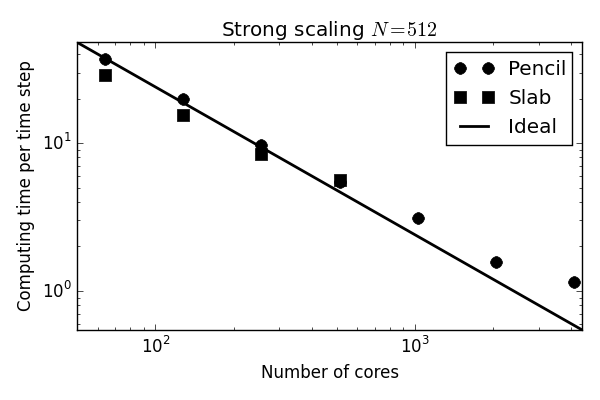
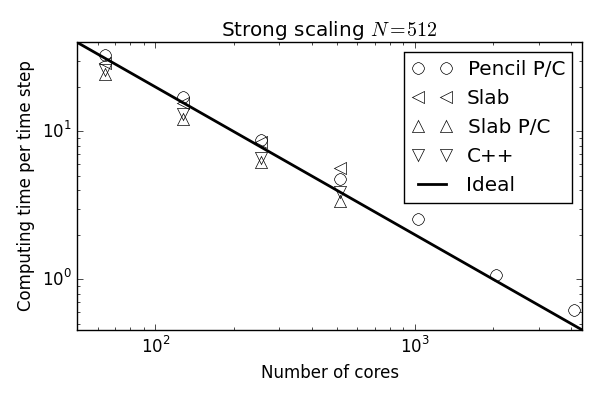
Adding first attempt at abstract and conclusions

diff --git a/PythonDNSproject.tex b/PythonDNSproject.tex
@@ -134,11 +134,23 @@ float=!htpb]{#2}}
 
 \begin{document}
 \maketitle
-\section{Abstract}
+\section*{Abstract}
+Direct Numerical Simulations (DNS) of the Navier Stokes equations is a valuable research tool in fluid dynamics. However, there are quite few publicly available codes and, due to heavy number crunching, codes are usually written in low-level languages. In this paper we describe a pure Python pseudo-spectral DNS code that nearly matches the performance of pure C for thousands of processors and billions of unknowns. We also describe an optimized version, using Cython, that is found to match C. 
+The solver is written from scratch in Python, both the mesh, the MPI domain decomposition and 
+temporalintegrators. The solver has been verified and benchmarked on the Shaheen supercomputer at the 
+KAUST supercomputing laboratory and we are able to show very good scaling up to several thousand cores. 
 
 \section{Introduction}
 %\subsection{}
-Direct Numerical Simulations (DNS) is a term reserved for computer simulations of turbulent flows that are fully resolved in both time and space. DNS are usually conducted using numerical methods of such high quality that numerical dispersion and diffusion errors are negligible compared to their actual physical counterparts. To this end, DNS has historically been carried out with extremely accurate and efficient spectral methods, and in the fluid dynamics community DNS enjoys  today the same status as carefully conducted experiments. DNS can provide detailed and highly reliable data not possible to extract from experiments, which in recent years have driven a number of discoveries regarding the very nature of turbulence. The present paper presents a new, computationally attractive tool for performing DNS, realized by recent programming technologies.
+Direct Numerical Simulations (DNS) is a term reserved for computer simulations of turbulent flows that are 
+fully resolved in both time and space. DNS are usually conducted using numerical methods of such high 
+quality that numerical dispersion and diffusion errors are negligible compared to their actual physical 
+counterparts. To this end, DNS has historically been carried out with extremely accurate and efficient 
+spectral methods, and in the fluid dynamics community DNS enjoys  today the same status as carefully 
+conducted experiments. DNS can provide detailed and highly reliable data not possible to extract from 
+experiments, which in recent years have driven a number of discoveries regarding the very nature of 
+turbulence. The present paper presents a new, computationally attractive tool for performing DNS, realized 
+by recent programming technologies.
 
 Because of the extremely heavy number crunching implied by DNS,
 researchers aim at highly optimized implementations running on
@@ -200,7 +212,7 @@ to scale well up to 65,000 cores.
 
 The ability of Python to wrap low-level, computationally highly efficient Fortran and C/C++ libraries for various applications is today well known, appreciated, and utilized by many. A lesser known fact is that basic Python modules like \texttt{numpy}, used for linear algebra and array manipulations, and \texttt{mpi4py}, which wraps (nearly) the entire MPI library, may be used directly to develop, from scratch, high performance solvers that run at speeds comparable to the very best implementations in low-level codes. A general misconception seems to be that Python may be used for fast prototyping and post-processing, as MATLAB, but that serious high-performance computing on parallel platforms require reimplementations in Fortran, C or C++. In this paper, we conquer this misconception: The only real requirement for developing a fast pure \texttt{numpy}/\texttt{mpi4py} solver is that all array manipulations are performed using vectorization (that call underlying BLAS or LAPACK backends) such that explicit for loops over long arrays in Python are avoided. The \texttt{mpi4py} module in turn provides a message passing interface for \texttt{numpy} arrays at communication speeds very close to pure C code.
 
-The major objective of this work is to explain a novel implementation of an excellent research tool (DNS) aimed at a wide audience. To this end, we i) show how a complete pseudo-spectral DNS solver can be written from scratch in Python using less than 100 lines of compact, very readable code, and ii) show that these 100 lines of code can run at speeds comparable to its low-level counterpart in hand-written C++ code on thousands of processors. To establish scaling and benchmark results, we have run the codes on SHAHEEN, a massively parallel BlueGene/P machine at the KAUST Supercomputing Laboratory.
+The major objective of this work is to explain a novel implementation of an excellent research tool (DNS) aimed at a wide audience. To this end, we i) show how a complete pseudo-spectral DNS solver can be written from scratch in Python using less than 100 lines of compact, very readable code, and ii) show that these 100 lines of code can run at speeds comparable to its low-level counterpart in hand-written C++ code on thousands of processors. To establish scaling and benchmark results, we have run the codes on Shaheen, a massively parallel BlueGene/P machine at the KAUST Supercomputing Laboratory.
 
 \section{The Navier-Stokes equations in spectral space}
 Our DNS implementation is based on a pseudo-spectral Fourier-Galerkin method \cite{canuto1988} for the spatial discretization. The Navier-Stokes equations are first cast in rotational form
@@ -213,7 +225,7 @@ Our DNS implementation is based on a pseudo-spectral Fourier-Galerkin method \ci
 \end{align}
 where $\bm{u}(\bm{x}, t)$ is the velocity vector, $\bm{\omega}=\nabla \times \bm{u}$ the vorticity vector, $\bm{e}^i$ the Cartesian unit vectors, and the modified pressure $P=p+\bm{u}\cdot \bm{u}/2$, where $p$ is the regular pressure normalized by the constant density. The equations are periodic in all three spatial directions. If all three directions now are discretized uniformely in space using a structured computational mesh with $N$ points in each direction, the mesh points can be represented as
 \begin{equation}
-\bm{x} = \left\{(x_i, x_j, x_k) = \left( \frac{2\pi i}{N}, \frac{2\pi j}{N}, \frac{2\pi k}{N} \right): \, i,j,k \in 0,\ldots, N-1 \right\}.
+\bm{x} = \left\{(x_i, y_j, z_k) = \left( \frac{2\pi i}{N}, \frac{2\pi j}{N}, \frac{2\pi k}{N} \right): \, i,j,k \in 0,\ldots, N-1 \right\}.
 \label{eq:realmesh}
 \end{equation}
 All variables may be transformed from the physical mesh $\bm{x}$ to a discrete and bounded Fourier wavenumber mesh using three-dimensional discrete Fourier transforms. The wavenumber mesh is represented as
@@ -223,15 +235,15 @@ All variables may be transformed from the physical mesh $\bm{x}$ to a discrete a
 \end{equation}
 Each point in the physical mesh will take part in three consecutive transformations, one for each periodic direction. The first transformed direction (arbitrary which one) is real and the remaining two are complex valued. There are in total $N^2$ real transforms of length $N$ and $2(N/2+1)N$ complex transforms of length $N$. The transforms in the three directions are performed sequentially. The first real transform along one line in the $z$-direction reads
 \begin{align}
-\mathcal{F}_{k_z}(\bm{u}) = \hat{\bm{u}}_{k_z}(t) &= \frac{2\pi}{N}\sum_{k=0}^{N-1}{\bm{u}({x}_k, t)}e^{-\imath k_z x_k}, \quad k_z=-N/2+1, \ldots, N/2,
+\mathcal{F}_{k_z}(\bm{u}) = \hat{\bm{u}}_{k_z}(t) &= \frac{2\pi}{N}\sum_{k=0}^{N-1}{\bm{u}({z}_k, t)}e^{-\imath k_z z_k}, \quad k_z=-N/2+1, \ldots, N/2,
 \end{align}
 with the inverse transform
 \begin{align}
-\mathcal{F}^{-1}_{z} (\hat{\bm{u}}) =\bm{u}(x_k, t) &= \frac{1}{2\pi}\sum_{k_z=-N/2+1}^{N/2}\hat{\bm{u}}_{k_z}(t)e^{\imath k_z {x}_k}, \quad k=0, \ldots, N-1.
+\mathcal{F}^{-1}_{z} (\hat{\bm{u}}) =\bm{u}(z_k, t) &= \frac{1}{2\pi}\sum_{k_z=-N/2+1}^{N/2}\hat{\bm{u}}_{k_z}(t)e^{\imath k_z {z}_k}, \quad k=0, \ldots, N-1.
 \end{align}
-Here $\imath=\sqrt{-1}$ is used to represent the imaginary unit.
+Here $\imath=\sqrt{-1}$ is used to represent the imaginary unit. The transform is performed along all $N^2$ lines on the cubic mesh in the $z$-direction. 
 
-The transform is performed along all $N^2$ lines on the cubic mesh in the $z$-direction. To simplify notation, the complete three-dimensional transform for the entire mesh used in this work is denoted as
+A three-dimensional FFT on the structured grid is obtained by taking three consecutive transforms
 \begin{equation}
 \mathcal{F}_{\bm{k}}(\bm{u}) = \hat{\bm{u}}_{\bm{k}}(t) = \mathcal{F}_{k_x}\left(\mathcal{F}_{k_y}\left(\mathcal{F}_{k_z}(\bm{u})\right)\right).
 \label{eq:FourierT3D}
@@ -242,7 +254,7 @@ Note, however, that the order is arbitrary except from the data layout in memory
 \end{equation}
 where the inverse transforms are taken in the opposite order of the forward transforms.
 
-By taking the three-dimensional Fourier transform of the Navier-Stokes equations and subsequently the analythical spatial derivatives in spectral space, we obtain a system of ordinary differential equation for $\hat{\bm{u}}_{\bm{k}}$, and the continuity equation reduces to an orthogonal inner product:
+By taking the three-dimensional Fourier transform of the Navier-Stokes equations and subsequently the analytical spatial derivatives in spectral space, we obtain a system of ordinary differential equation for $\hat{\bm{u}}_{\bm{k}}$, and the continuity equation reduces to an orthogonal inner product:
 \begin{align}
  \frac{d\hat{\bm{u}}_{\bm{k}}}{d t} - \widehat{( \bm{u} \times \bm{\omega})}_{\bm{k}} &= - \nu |\bm{k}|^2  \hat{\bm{u}}_{\bm{k}} - \imath \bm{k} \hat{P}_{\bm{k}}, \label{eq:NSf} \\
  \imath \bm{k} \cdot \hat{\bm{u}}_{\bm{k}} &= 0.
@@ -264,13 +276,13 @@ The time integration of (\ref{eq:NSfinal}) is performed explicitly using a fourt
 
 \section{Implementation}
 
-We have implemented the pseudo-spectral discretization of the Navier-Stokes equations, as described in the previous section, in high-level Python code. It is strongly remarked that this Python code is not simply a wrapper of a low-level, high-performance flow solver written originally in Fortran, C or C++. The entire code is implemented directly in Python: the mesh, the MPI domain decomposition, and the time integrators. We are only making use of wrappers for FFT, something that is also done by the majority of low-level flow solvers anyway. The current Python implementation may, as such, be used as an easy to follow, working prototype for a complete low-level implementation in Fortran, C or C++.
+We have implemented the pseudo-spectral discretization of the Navier-Stokes equations, as described in the previous section, in high-level Python code. A complete solver is shown in the Appendix. It is strongly remarked that this Python code is not simply a wrapper of a low-level, high-performance flow solver written originally in Fortran, C or C++. The entire code is implemented directly in Python: the mesh, the MPI domain decomposition, and the time integrators. We are only making use of wrappers for FFT, something that is also done by the majority of low-level flow solvers anyway. The current Python implementation may, as such, be used as an easy to follow, working prototype for a complete low-level implementation in Fortran, C or C++.
 
 The Python solver makes extensive use of the \texttt{numpy} and \texttt{mpi4py} packages, but if the \texttt{pyfftw} module has been installed, it will be used to perform the FFT instead of \texttt{numpy.fft}. The necessary modules are imported as the very first task of the solver:
 
 \begin{python}
 from numpy import *
-from numpy.fft import fftfreq, fft, ifft, rfft, irfft
+from numpy.fft import fftfreq, fft, ifft, rfft2, irfft2, rfftn, irfftn
 try:
     from mpi.wrappyfftw import *
 except ImportError:
@@ -413,21 +425,21 @@ t = 0        # Physical time
 T = 1.0      # End time
 while t <= T:
     t += dt
-    U_hat = ComputeRHS(dU)*dt
+    U_hat += ComputeRHS(dU)*dt
     for i in range(3):
         U[i] = ifftn_mpi(U_hat[i], U[i])
 
 \end{python}
 Obviously, more advanced integrators may be easily added by modifying the final \inpyth{while} loop. 
 
-The nonlinear convection term in (\ref{eq:NSfinal}) is dealiased using the 2/3-rule and dealiasing is simply achieved by an elementwise multiplication of a convection matrix \inpyth{dU[3, N, N, N/2+1} with a matrix \inpyth{dealias[N, N, N/2+1]}, which is zero where the wavenumbers are larger than 2/3 of the Nyquist mode and unity otherwise. Note that the dimensions of \inpyth{dU} and \inpyth{dealias} differ in the first index since \inpyth{dU} contains contributions from all three vector components. However, through automatic broadcasting, \texttt{numpy} realizes that the last three dimensions are the same and as such all three components of \inpyth{dU} (i.e.,  \inpyth{dU[0]}, \inpyth{dU[1]} and  \inpyth{dU[2]}) are multiplied elementwise with the same matrix \inpyth{dealias}. 
+The nonlinear convection term in (\ref{eq:NSfinal}) is dealiased using the 2/3-rule and dealiasing is simply achieved by an elementwise multiplication of a convection matrix \inpyth{dU[3, N, N, N/2+1} with a matrix \inpyth{dealias[N, N, N/2+1]}, that is zero where the wavenumbers are larger than 2/3 of the Nyquist mode and unity otherwise. Note that the dimensions of \inpyth{dU} and \inpyth{dealias} differ in the first index since \inpyth{dU} contains contributions from all three vector components. However, through automatic broadcasting, \texttt{numpy} realizes that the last three dimensions are the same and as such all three components of \inpyth{dU} (i.e.,  \inpyth{dU[0]}, \inpyth{dU[1]} and  \inpyth{dU[2]}) are multiplied elementwise with the same matrix \inpyth{dealias}. 
 
 \subsection{1D Slab decomposition}
 \label{slab1D}
 
 To run the code on several processors using MPI, the mesh and the data structures need to be split up. The most popular strategy in the litterature is the ``slab'' decomposition, where each CPU is assigned responsibility for a certain number of complete 2D planes (slices). In other words, just one of the three indices $(i,j,k)$ is split up and divided amongst the CPUs. The major drawback of the slab decomposition strategy is that the number of CPUs must be smaller than or equal to $N$ for a cubic mesh of size $N^3$. The MPI implementation in FFTW makes use of the slab decomposition strategy, but there is currently no interface from Python to these MPI routines.
 
-The real and wavenumber meshes for the slab decomposition are implemented through a slight modification of the serial code:
+The decomposed physical and wavenumber meshes for the slab decomposition are implemented through a slight modification of the serial code:
 
 \begin{python}
 Np = N / num_processes
@@ -614,7 +626,7 @@ def fftn_mpi(u, fu):
 \end{python}
 
 \subsection{Optimization}
-The implementation discussed thus far is using no more than numpy/mpi4py, and possibly pyfftw for faster FFTs. The FFTs represent the major computational cost of the solver, but there is also significant cost in all the elementwise operations on the structured numpy arrays required to build the right hand side of the Navier-Stokes equations, see the \inpyth{ComputeRHS} function. The elementwise operations, like multiply and divide, are handled by numpy's universal functions (ufuncs), that are fast because they are implemented in C. However, some of the ufuncs may be inefficient because temporary arrays need to be created, especially for multiple-operator expressions. The most glaring example is the cross product (used in computing convection, see Eq. (\ref{eq:curl_convection})), which is computed most efficiently though numpy as
+The implementation discussed thus far is using no more than numpy/mpi4py, and possibly pyfftw for faster FFTs. The FFTs represent the major computational cost of the solver, but there is also significant cost in all the elementwise operations on the structured numpy arrays required to build the right hand side of the Navier-Stokes equations, see the \inpyth{ComputeRHS} function. The elementwise operations, like multiply and divide, are handled by numpy's universal functions (ufuncs), that are fast because they are implemented in C. However, some of the ufuncs may be inefficient due to temporary arrays that need to be created, especially for multiple-operator expressions. The most glaring example for the current solver is the cross product (used in computing convection, see Eq. (\ref{eq:curl_convection})), which is computed most efficiently though numpy as
 \begin{python}
 def cross1(a, b, c):
     """Regular c = a x b"""
@@ -696,12 +708,12 @@ Our Python based DNS solver has been tested on Shaheen, at the KAUST Supercomput
 \subsection{Dynamic loading of Python}
 Running a Python solver on a supercomputer presents a few challenges. Most importantly, the dynamic loading time of Python, i.e., the time to simply get started, may become unreasonably high. To load Python with numpy on the complete 16 racks of Shaheen takes approximately 45 minutes. The main reason is that large-scale supercomputers, such as Shaheen, make use of parallel file systems designed to support large distributed loads, where each CPU is writing or reading data independently. With dynamic loading, however, each process attempts to access the same files simultaneously and bottlenecks appear. 
 
-A few solutions to the loading problem are known. The \inpyth{MPI_Import} Python module of Langton \cite{mpi_import} is designed to overload the built in import mechanism of Python such that only one rank (the zero rank) searches the filesystem for a module and then subsequently broadcasts the results to the remaining ranks. A drawback is the Python implementation where several modules \inpyth{(sys, imp, __builtin__,types, mpi4py)} need to be imported through the regular Python import mechanism. A second approach of Langton is to rewrite the regular finders and loaders modules such that one rank do all the initial work, caching the modules it finds. 
+A few solutions to the loading problem are known. The \inpyth{MPI_Import} Python module of Langton \cite{mpi_import} is designed to overload the built in import mechanism of Python such that only one rank (the zero rank) searches the filesystem for a module and then subsequently broadcasts the results to the remaining ranks. A drawback is the Python implementation where several modules (e.g., \inpyth{sys, imp, __builtin__,types, mpi4py}) need to be imported through the regular Python import mechanism. A second approach of Langton is to rewrite the regular finders and loaders modules such that one rank do all the initial work, caching the modules it finds. 
 
 A better solution is provided through the Scalable Python implementation \cite{scalablepython, Enkovaara201117}. Here CPython is modified slightly such that during import operations only a single process performs the actual I/O, and MPI is used for broadcasting the data to other MPI ranks. The solution provided by scalable python is used in this work and as such dynamic loading times are kept very low (approximately 30 seconds for a full rack).
 
 \subsection{Verification}
-To verify our Python based DNS solver we run the Taylor Green test case for a Reynolds number of 1600. This is a well known test case used, e.g., by the annual Workshop on High-Order CFD Methods, that provides temporal evolution of reference data (https://www.grc.nasa.gov/wp-content/uploads/sites/22/ C3.3$\_$datafiles.zip) for kinetic energy, energy dissipation and vorticity integrated over the computational domain. The Taylor Green test case at Re=1600 starts out as laminar with only one single length scale, and then through a series of complex flow patterns a fully developed, decaying, turbulent flow is obtained. The Taylor Green vortex is initialized as
+To verify the implementation of our Python based DNS solver we run the Taylor Green test case for a Reynolds number of 1600. This is a well known test case used, e.g., by the annual Workshop on High-Order CFD Methods, that provides temporal evolution of reference data\footnote{https://www.grc.nasa.gov/wp-content/uploads/sites/22/ C3.3$\_$datafiles.zip} for kinetic energy, energy dissipation and vorticity integrated over the computational domain. The Taylor Green test case at Re=1600 starts out as laminar with only one single length scale, and then through a series of complex flow patterns a fully developed, decaying, turbulent flow is obtained. The Taylor Green vortex is initialized as
 \begin{python}
 nu = 1./1600
 dt = 0.001
@@ -741,30 +753,32 @@ size as the slab computations. As such the two methods would fall on the same li
 Fig.~\ref{fig:weak_scaling_shaheen} if they were equally efficient. The slab decomposition is thus seen to 
 be slightly more efficient than pencil, which is generally in agreement with previous studies (need ref). 
 
-An obvious scaling problem for the pure numpy implementation is the transpose operation used in the FFTs 
-(see implementation of \inpyth{fftn_mp i}), where a for loop is used over all processes (or over all 
-processes in a group for pencil decomposition) to rearrange data. The for loops are inefficient in Python 
-and should be avoided. For relatively small numbers of processors the cost of this for loop is negligible, 
-but when reaching thousands of processors, the loop becomes too slow leading to poor scaling. When the for 
-loop is moved to Cython, better weak scaling is observed also for highest number of cores shown in Figure 
-\ref{fig:weak_scaling_shaheen}. Results for the optimized Cython version of the code is not shown, but they are found to fall almost on top of the C++ diamonds.
-
 \begin{figure}
 \includegraphics[scale=1]{figs/weak_scaling_shaheen_numpy.png}
-\caption{Weak scaling of pure numpy/mpi4py/pyfftw DNS solver. The slab (squares) decomposition used $4 \cdot 64^3$ nodes per core, whereas the pencil decomposition (dots) used $2 \cdot 64^3 $. The C++ solver uses slab decomposition. The solid line represents ideal scaling.}
+\caption{Weak scaling of pure numpy/mpi4py/pyfftw DNS solver. The slab (squares) decomposition used $4 \cdot 64^3$ nodes per core, whereas the pencil decomposition (dots) used $2 \cdot 64^3 $. The C++ solver uses slab decomposition and MPI communication is performed through the FFTW library. }
 \label{fig:weak_scaling_shaheen}
 \end{figure}
 
 \subsubsection{Strong scaling}
-Strong scaling over a wide range of processors is more challenging than weak.
+\label{sec:strong_scaling}
+Strong scaling over a wide range of processors is usually more challenging than weak, partly because the efficiency of the FFT routines depends on the length of the datastructures and how well they fit into memory. Nevertheless, we have run our pure Python and an optimized Python/Cython code for a computational box of size $512^3$ and plot in Fig. \ref{fig:strong_scaling_shaheen} the computing time per time step, for both the pencil (dots) and slab (squares) decompositions, and for the C++ solver. The number of cores is varied over the entire possible range from 64 to 512 for the slab decomposition (lower limit due to memory), and from 64 to 4096 for the pencil decomposition. The scaling is very good for the optimized versions, both pencil and slab, and speedup is observed throughout the entire range. The pure Python solver achieves good speed-up for relatively low number of cores, but gradually becomes worse for large number of cores. Interestingly, the optimized version of the code is seen to more than match the performance of the C++ solver for this particular case. Note that the C++ and the Python code both use the same FFTW library. However, the Python code only makes use of the serial versions of the FFT routines and performs the MPI communications itself through \inpyth{mpi4py}. From Fig. \ref{fig:strong_scaling_shaheen} it is evident that the C++ and the optimized Python solver (slab P/C) are approximately equally fast for 64 processors, but then the Python code becomes gradually better for larger number of cores. This enhanced performance means that our implementation of the parallel 3D FFT routine, for this particular case at least, is faster than the one provided through the FFTW library.
+
+An obvious scaling problem for the pure numpy implementation is the transpose operation used in the implementation of the FFTs 
+(see implementation of \inpyth{fftn_mpi}), where a for loop is used over all processes (or over all 
+processes in a group for pencil decomposition) to rearrange data. The for loops are inefficient in Python 
+and should be avoided. For relatively small numbers of processors the cost of this for loop is negligible, 
+but when approaching thousands of processors, the loop becomes too slow leading to poor scaling. This for loop is the main reason why the numpy solver performs rather poorly for the largest number of cores seen for the slab solver in Fig. \ref{fig:strong_scaling_shaheen}. 
+
 
 \begin{figure}
 \includegraphics[scale=1]{figs/strong_scaling_shaheen_512.png}
-\caption{Strong scaling of pure numpy/mpi4py/pyfftw DNS solver.}
+\caption{Strong scaling of pure Python (slab, left pointing triangles) and optimized DNS solvers marked with P/C for Python/Cython. The C++ solver uses slab decomposition and MPI communication is performed through the FFTW library. }
 \label{fig:strong_scaling_shaheen}
 \end{figure}
 
 \section{Conclusions}
+
+For the benefit of the fluid mechanics community, in need of accessible highly accurate flow solvers, we have described a parallel Python implementation of an open source pseudo-spectral DNS solver for turbulent flows. The solver is implemented using standard Python modules (numpy, mpi4py) and a very high level of abstraction, using no more than 100 lines of code - nothing more than a script really. We have then discussed an optimization of this solver through the use of Cython. The solver has been verified and benchmarked on the Shaheen supercomputer at the KAUST supercomputing laboratory and we are able to show very good scaling up to several thousand cores with performance matching that of a pure C++ implementation. 
 
 \section*{Acknowledgements}
 M. Mortensen acknowledges support from the 4DSpace Strategic Research Initiative at the University of Oslo. M. Mortensen and H. P. Langtangen also acknowledge support through a Center of Excellence grant from the Research Council of Norway to the Center for Biomedical Computing at Simula Research Laboratory.
@@ -773,6 +787,7 @@ M. Mortensen acknowledges support from the 4DSpace Strategic Research Initiative
 
 \newpage
 \section*{Appendix}
+\label{sec:appendix}
 Below is a complete Python script that solves (\ref{eq:NSfinal}) with slab decomposition and a fourth order Runge Kutta method for the Taylor Green test case. Saved as \inpyth{TG.py} it runs in parallel on 128 processors with command \inpyth{mpirun -np 128 python TG.py}.
 \begin{python}
 from numpy import *
